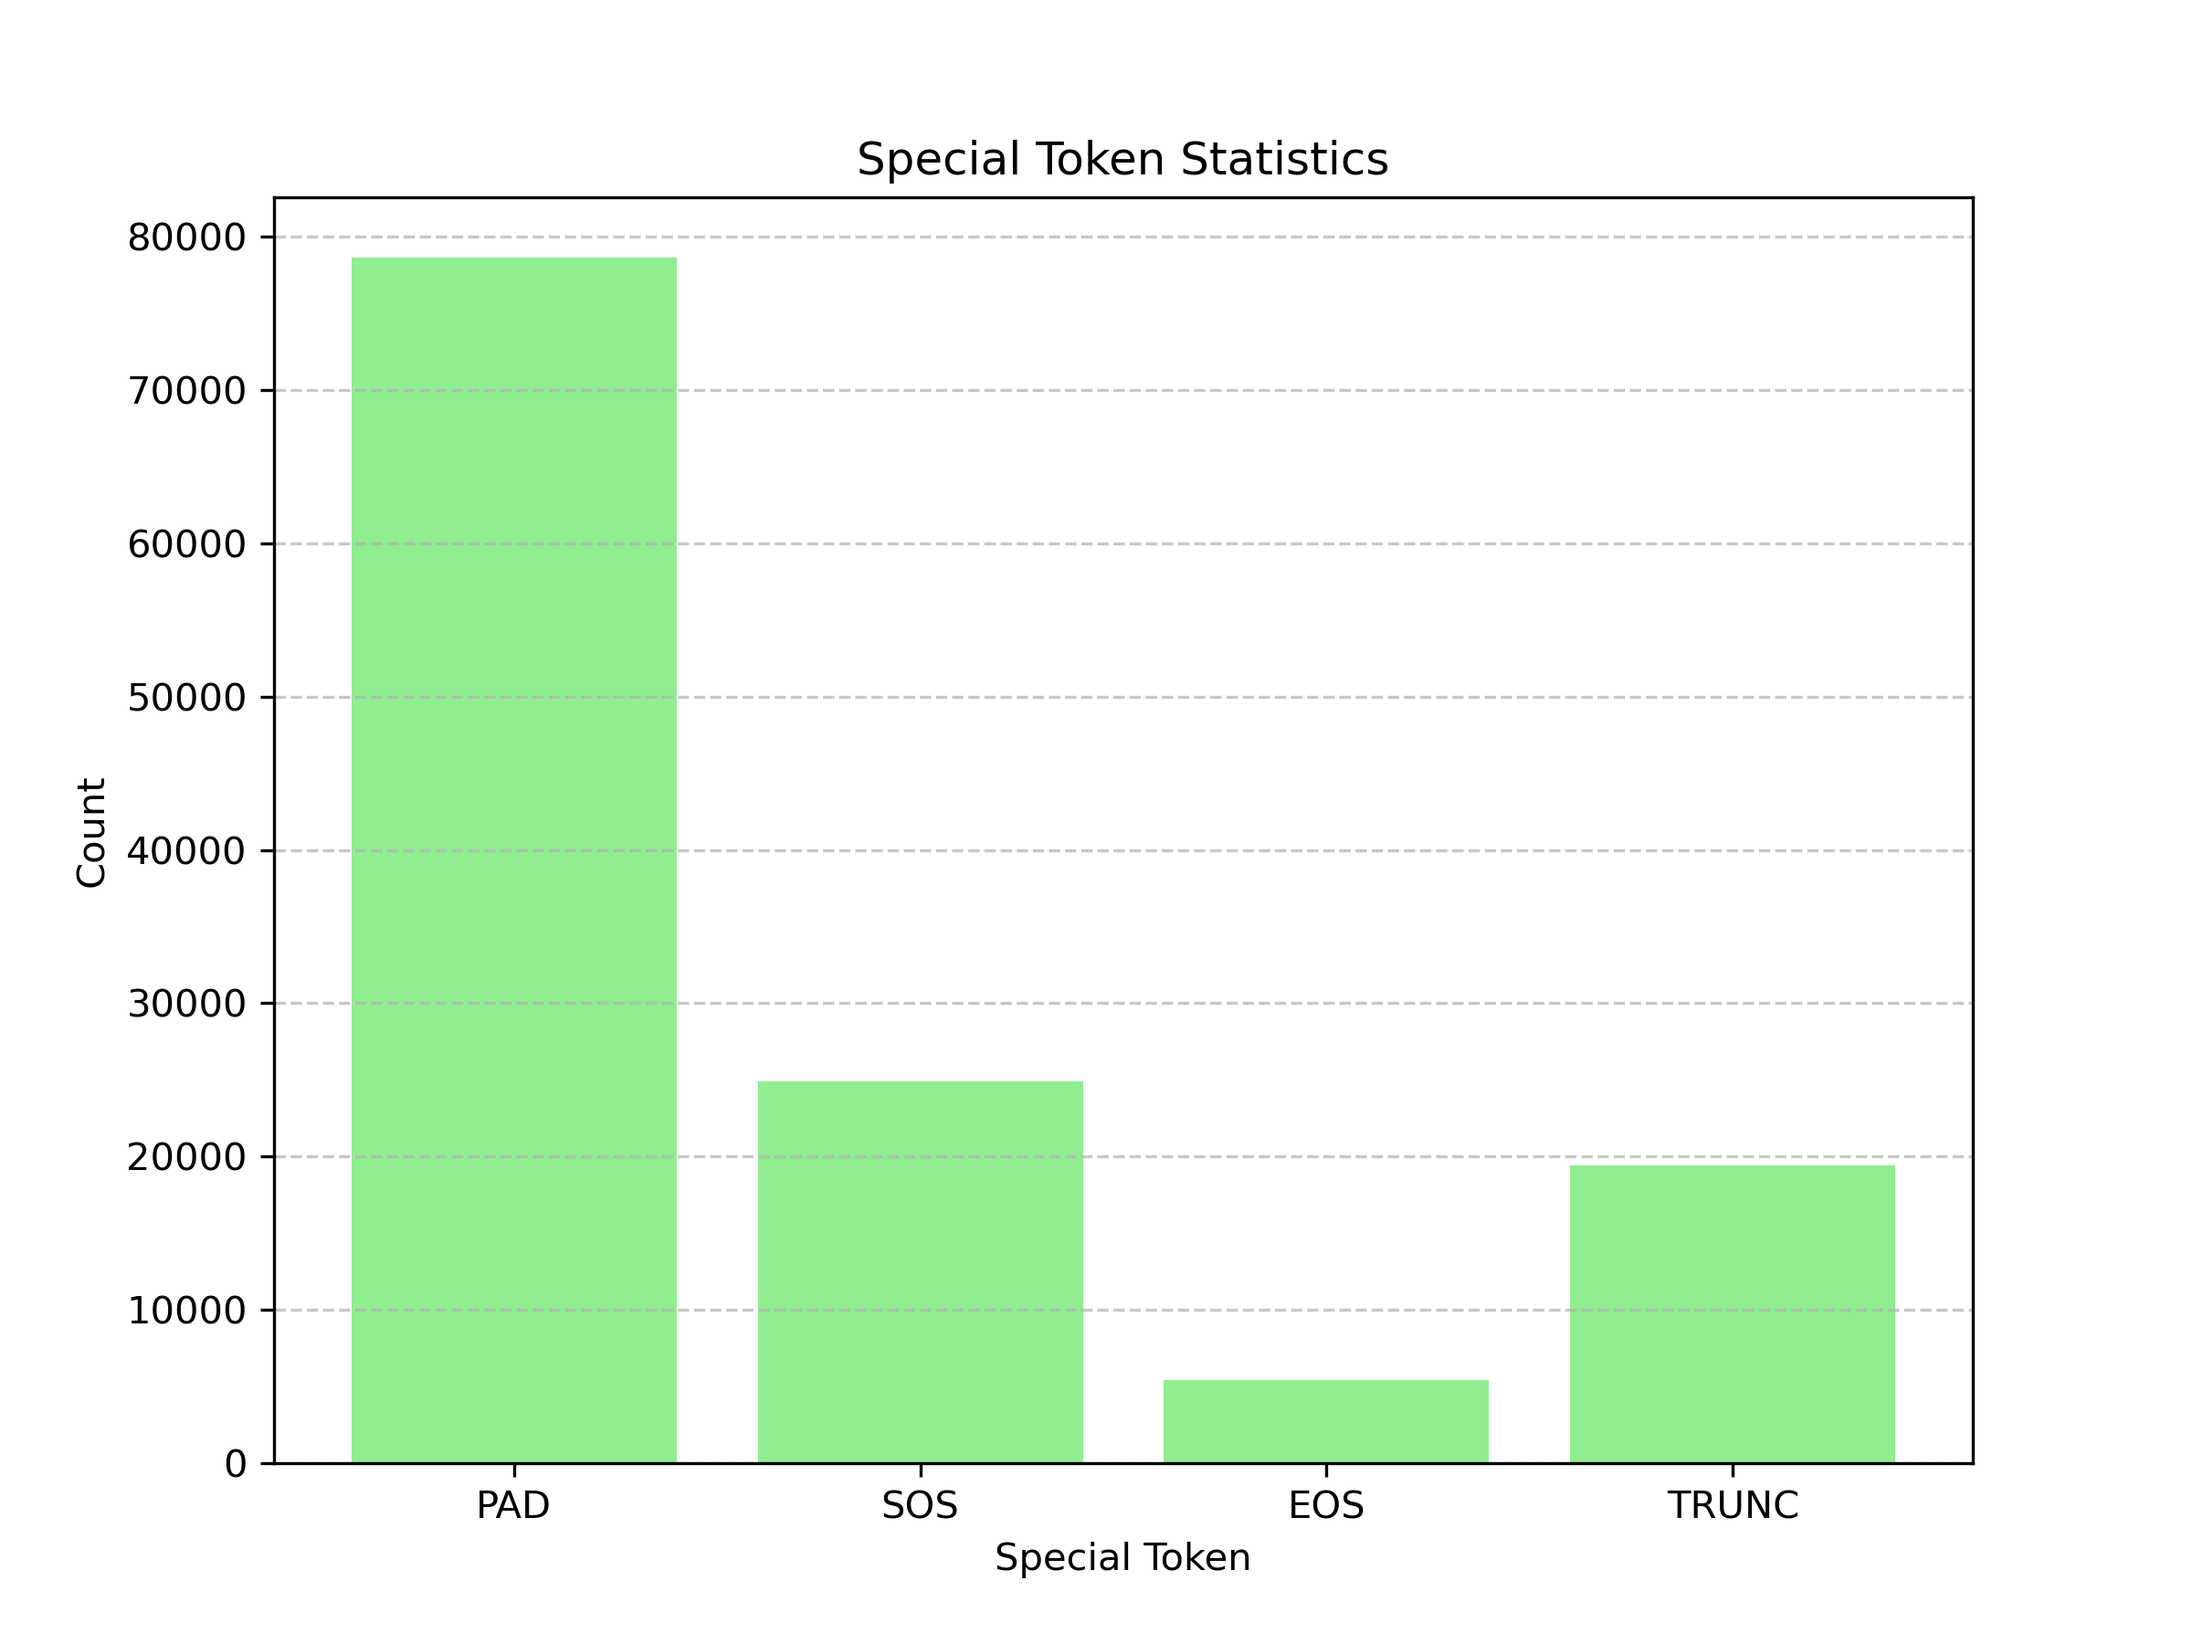
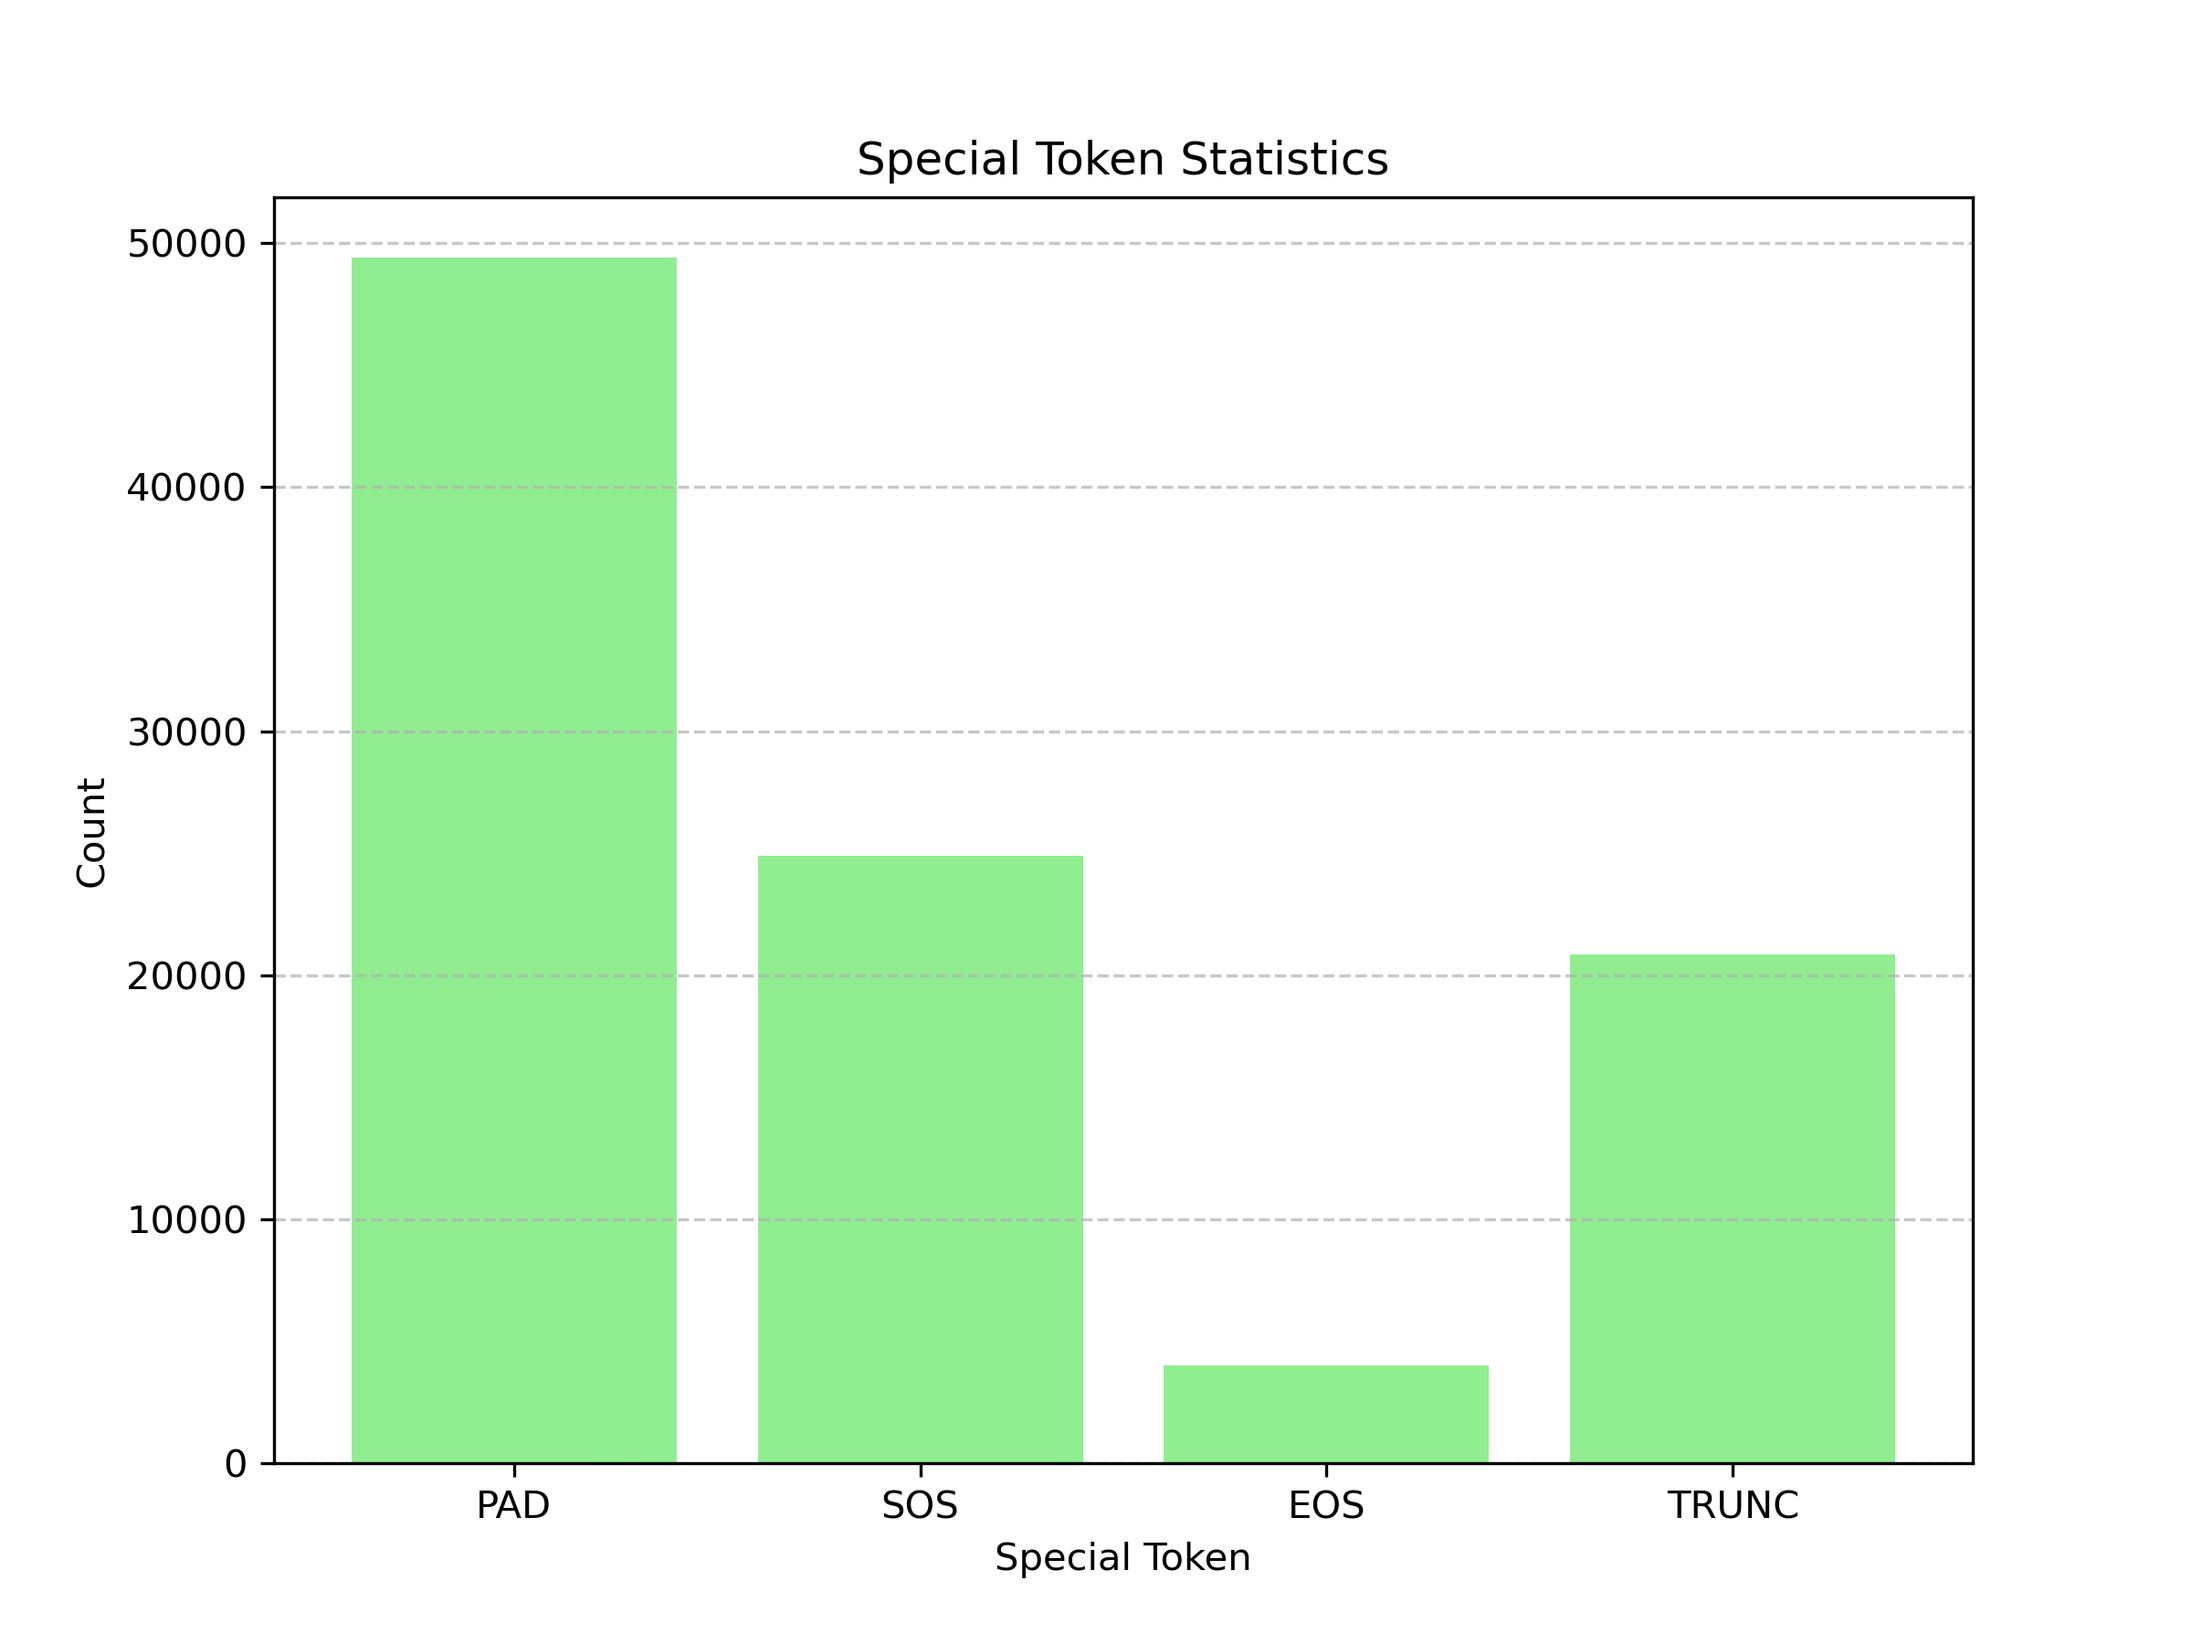
@Jonas: added support for cross entropy with regularizationm for padding token
Added visualization of tokenized data

diff --git a/CUPY/models/utils/tokenize_data_fast.py b/CUPY/models/utils/tokenize_data_fast.py
@@ -36,7 +36,8 @@ def tokenize_dataset_to_bin(self, files_paths: str | Path | Sequence[str | Path]
                             save_programs=None,
                             verbose=True,
                             seq_length = None,
-                            manually_add_sos_eos = False):
+                            manually_add_sos_eos = False,
+                            subset):
     """
     @Jonas
     Custom method to tokenize files and return a NumPy array.
@@ -173,7 +174,7 @@ def tokenize_dataset_to_bin(self, files_paths: str | Path | Sequence[str | Path]
         print(tabulate(token_stats_table, headers=["Token Type", "Count/Details"], tablefmt="grid"))
 
         
-        visualize_tokenized_data(token_array, pad_token, sos_token, eos_token, trunc_token) 
+        visualize_tokenized_data_combined(token_array, pad_token, sos_token, eos_token, trunc_token, subset = subset) 
 
     self._verbose = False
     return token_array
@@ -218,7 +219,8 @@ def analyze_tokenized_data(token_array, pad_token_id, sos_token_id, eos_token_id
 
 
 def visualize_tokenized_data(token_array, pad_token_id, sos_token_id, eos_token_id, trunc_token_id,
-                             output_path="/csghome/hpdc04/Transformer_Code/tokenization_summary_plots/"):
+                             output_path="/csghome/hpdc04/Transformer_Code/tokenization_summary_plots/",
+                             subset = None):
     os.makedirs(output_path, exist_ok=True)
     
     # Analyze sequence lengths
@@ -283,11 +285,6 @@ def visualize_tokenized_data(token_array, pad_token_id, sos_token_id, eos_token_
 
 def visualize_tokenized_data_combined(token_array, pad_token_id, sos_token_id, eos_token_id, trunc_token_id,
                                       output_path="/csghome/hpdc04/Transformer_Code/tokenization_summary_plots/"):
-    import os
-    from pathlib import Path
-    import numpy as np
-    from collections import Counter
-    import matplotlib.pyplot as plt
 
     os.makedirs(output_path, exist_ok=True)
     output_path = Path(output_path, f"combined_visualization_{config.context_length}_{config.vo_size}_{config.tokenizer_name_str}.png")

diff --git a/CUPY/models/GoePT/train.py b/CUPY/models/GoePT/train.py
@@ -109,6 +109,7 @@ def get_log_output_table(log_output_buffer: deque) -> Table:
     table.add_column('Epoch', style='cyan')
     table.add_column('Train loss', style='green')
 
+
     for timestamp, epoch, loss in log_output_buffer:
         table.add_row(f'{timestamp}', f'{epoch}', f'{loss:.5e}')
 
@@ -158,7 +159,7 @@ def main():
 
     # Initialize Weights & Biases (wandb)
     wandb.init(
-        project="MIDI-Transformer", 
+        project=f"MIDI-Transformer-Regularization_{config.regularization}", 
         config={
             "data_dir": config.data_dir,
             "checkpoint_dir": config.checkpoint_dir,
@@ -266,7 +267,8 @@ def main():
 
                 model.backward(grad)
 
-                log_output_buffer.append((datetime.datetime.now().isoformat(), iter_num + 1, loss.item()*config.gradient_accumulation_steps))
+                log_output_buffer.append((datetime.datetime.now().isoformat(), iter_num + 1, loss.item()*config.gradient_accumulation_steps,
+                                          ))
 
                 progress_step.console.clear()
                 progress_step.console.print(table_update_func())

diff --git a/CUPY/models/GoePT/loss_with_regularization.py b/CUPY/models/GoePT/loss_with_regularization.py
@@ -4,7 +4,7 @@ from numpy.typing import ArrayLike
 
 eps = 1e-6
 
-def cross_entropy_loss_regularized(y_pred: ArrayLike, y_true: ArrayLike, padding_token_idx = 0, alpha = 0.2) -> cp.ndarray:
+def cross_entropy_loss_regularized(y_pred: ArrayLike, y_true: ArrayLike, padding_token_idx = 0, alpha = None) -> cp.ndarray:
     """
     Compute cross entropy loss between true 1-hot encoded vector and softmax output of a predictor.
     """
@@ -17,10 +17,9 @@ def cross_entropy_loss_regularized(y_pred: ArrayLike, y_true: ArrayLike, padding
     cross_entropy = cp.mean(loss)
     
     # Compute padding token penalty
-    padding_probs = y_pred[:, padding_token_idx]  # Extract probabilities for the padding token
+    padding_probs = y_pred[:, padding_token_idx]  
     padding_penalty = cp.mean(padding_probs)      # Average probability of padding token
-    
+        
     # Combine cross-entropy loss and regularization term
     total_loss = cross_entropy + alpha * padding_penalty
-    
     return total_loss

diff --git a/CUPY/models/utils/generate_train_val_test.py b/CUPY/models/utils/generate_train_val_test.py
@@ -133,7 +133,8 @@ for subset in train_val_test_path:
     tokenized_data = tokenizer.tokenize_dataset_to_bin(files_paths = files_path,
                                                        verbose = True,
                                                        seq_length = seq_length,
-                                                       manually_add_sos_eos = config.manually_set_sos_eos_trunc)
+                                                       manually_add_sos_eos = config.manually_set_sos_eos_trunc,
+                                                       subset = subset)
     
     # :NOTE manually_set_sos_eos_trunc is defined globally at the beginning
     # Sanity check

diff --git a/CUPY/models/GoePT/model.py b/CUPY/models/GoePT/model.py
@@ -137,12 +137,13 @@ class GoePT():
             logits = self.lm_head.forward(x)
 
             ic(logits.shape, targets.shape)
+            print(logits.shape, targets.shape)
             logits_for_loss = logits.reshape(-1, logits.shape[-1])
             
             targets_for_loss = cp.expand_dims(targets.reshape(-1), 1)
             targets_for_loss = scr.one_hot(targets_for_loss, self.vocab_size)
 
-            if (self.regularization):
+            if (self.regularization == True):
                 loss = cross_entropy_loss_regularized(logits_for_loss, targets_for_loss,
                                                          alpha = self.reg_alpha)
             else:

diff --git a/CUPY/models/GoePT/config.py b/CUPY/models/GoePT/config.py
@@ -22,15 +22,15 @@ manually_set_sos_eos_trunc = True
 
 # REGULARIZATION
 regularization = True
-reg_alpha = 0.1
+reg_alpha = 100000
 #
 
-batch_size = 32  # Default batch size
-context_length = 64  # Sequence context length
+batch_size = 24  # Default batch size
+context_length = 128  # Sequence context length
 epochs = 150  # Number of epochs to train
 gradient_accumulation_steps = 32  # Steps for gradient accumulation
 learning_rate = 0.001 # Initial learning rate
-dropout_rate = 0.15 # Default dropout rate
+dropout_rate = 0 # Default dropout rate
 n_layer = 8  # Number of layers in the transformer
 n_embd = 384  # Embedding size
 n_heads = 6  # Number of attention heads
